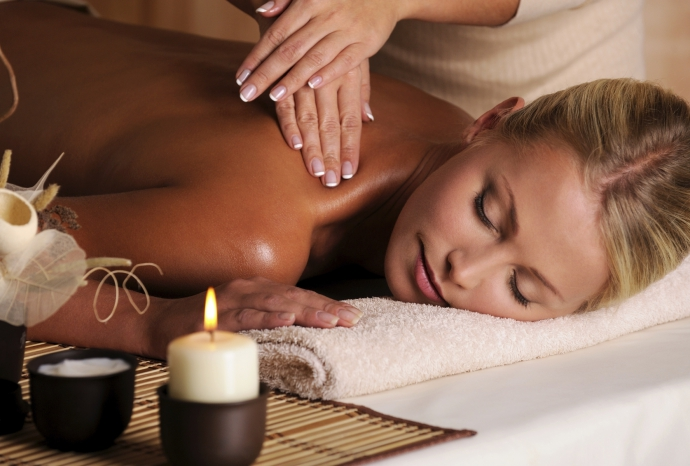
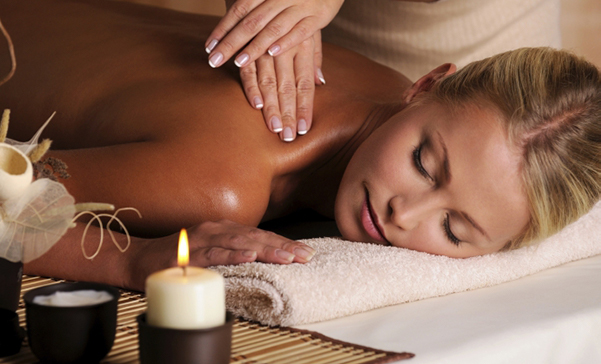
update Procedure Component and update image sizes

diff --git a/src/components/Procedures/ProcedureCard.css b/src/components/Procedures/ProcedureCard.css
@@ -5,7 +5,8 @@
     transition: 0.5s;
     animation: ease-in-out;
     display: inline-block;
-    padding: 40px;
+    height: 400px;
+    padding: auto;
 }
 
 .card-container:hover {
@@ -14,7 +15,7 @@
 }
 .image-container img {
     overflow: hidden;
-    height: 300px;
+    height: 200px;
 }
 .card-content {
     margin: 1rem;

diff --git a/src/components/Procedures/Procedures.js b/src/components/Procedures/Procedures.js
@@ -112,7 +112,7 @@ export const Procedures = () => {
   ];
 console.log(data.forEach(x => x._id));
   return( 
-    <ul>
+    <>
       {Object.values(data).map(x => <ProcedureCard procedure={x} key={x.id}/>)}
-    </ul>);
+    </>);
 };
